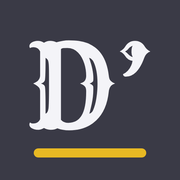
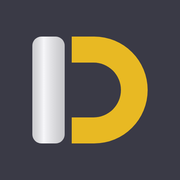
Nuevo icono: D construida con rodillo y franja de pintura

diff --git a/index.html b/index.html
@@ -17,6 +17,7 @@
 <meta property="og:image:height" content="630">
 <meta property="og:image:alt" content="Decor’arte, pintura decorativa e industrial en Pamplona. Damos color a tus ideas.">
 <meta name="twitter:card" content="summary_large_image">
+<link rel="icon" type="image/svg+xml" href="/favicon.svg">
 <link rel="icon" href="/favicon.ico" sizes="48x48">
 <link rel="icon" type="image/png" sizes="32x32" href="/favicon-32.png">
 <link rel="icon" type="image/png" sizes="192x192" href="/icon-192.png">
